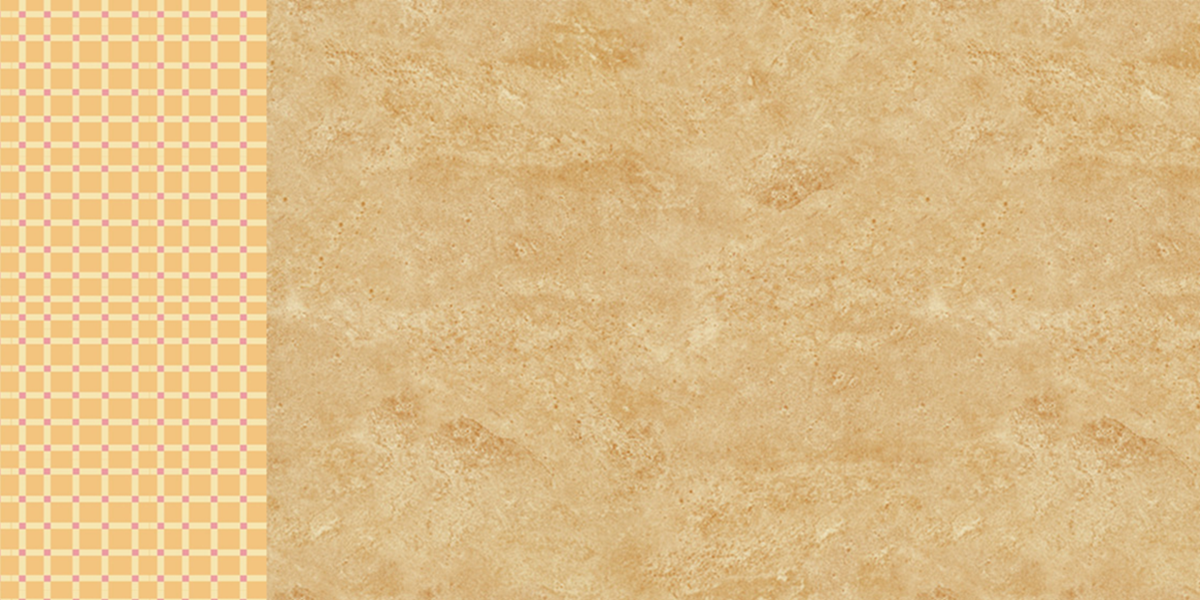
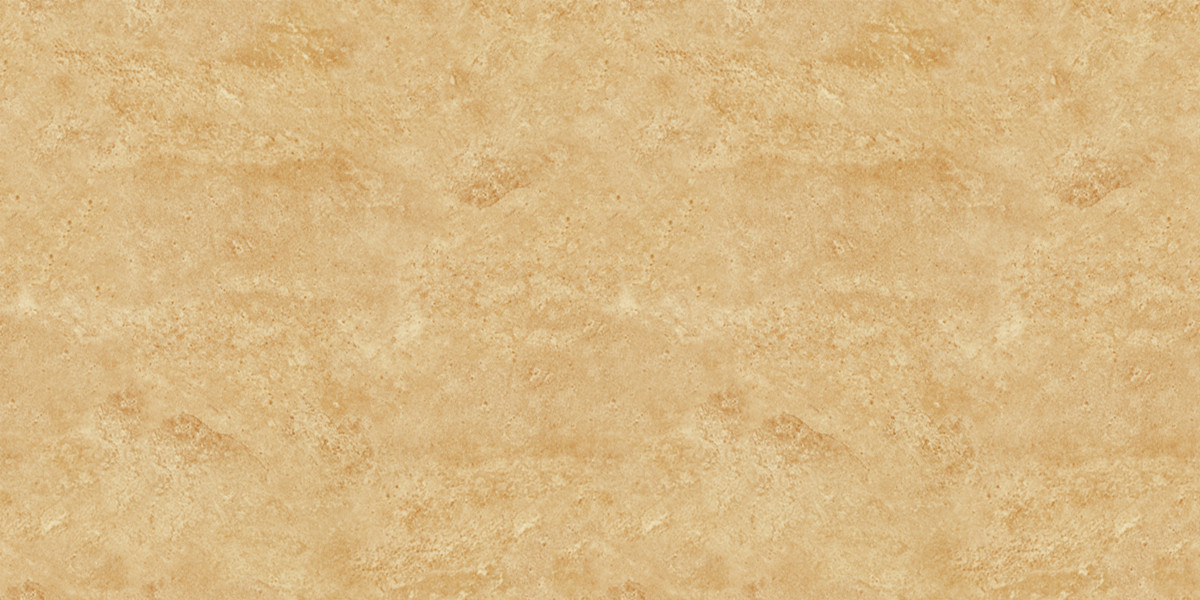
changed background

diff --git a/KittinCellProjectV0/src/productionManager/TitlePanel.java b/KittinCellProjectV0/src/productionManager/TitlePanel.java
@@ -9,7 +9,7 @@ public class TitlePanel extends JPanel{
 	ImageIcon background;
 	
 	public TitlePanel(){
-		background = new ImageIcon("images/background2.png");
+		background = new ImageIcon("images/background1.png");
 		titleText = new JLabel("Production Manager");
 		Font f = new Font("Verdana", Font.BOLD, 24);
 		titleText.setFont(f);
